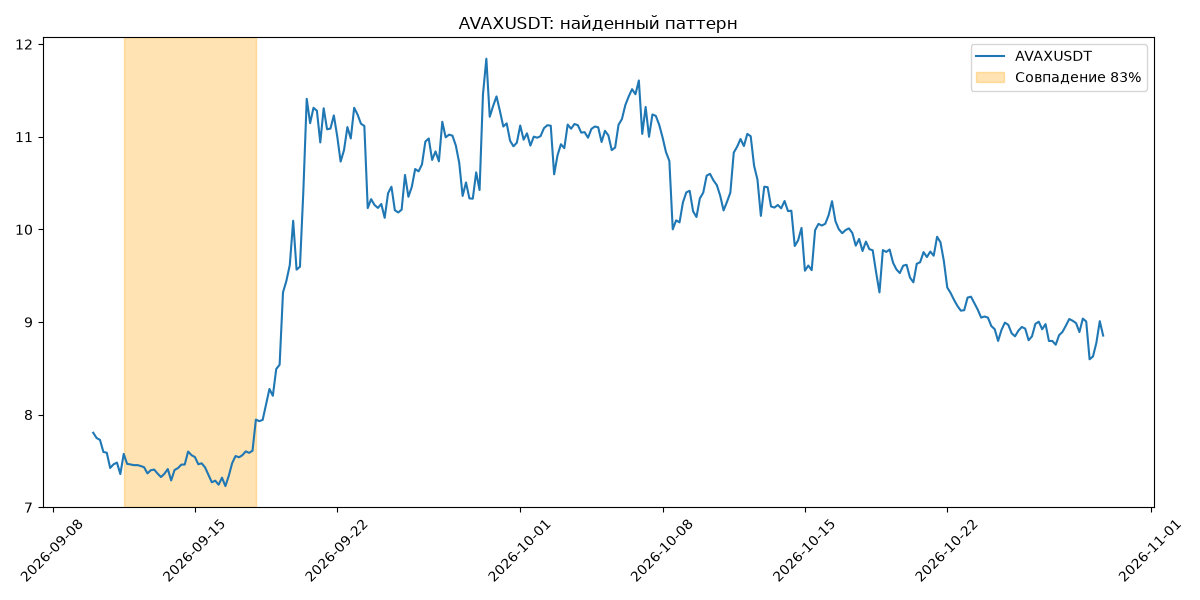
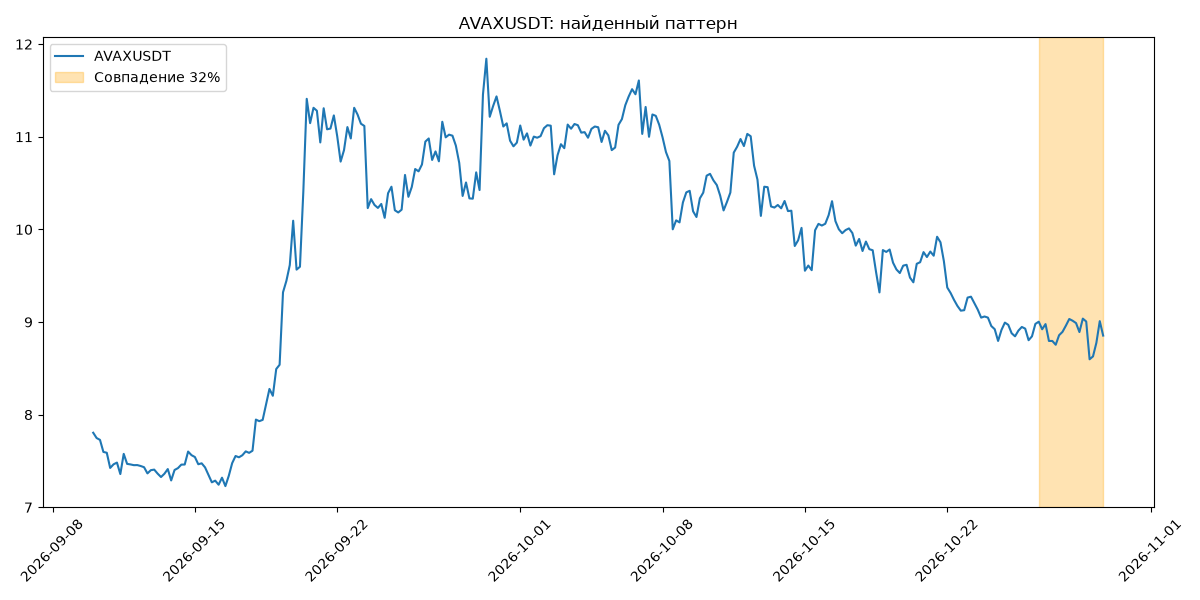
fjf

Changed region(s): [[0.0308, 0.06, 0.2158, 0.87], [0.8017, 0.06, 0.9558, 0.87]]

diff --git a/pattern_finder/demo.py b/pattern_finder/demo.py
@@ -6,6 +6,8 @@ from chart import plot_match
 PHOTO = "w_shape.png"
 INTERVAL = "4h"
 WINDOW = [20,30,40,60,80]
+RECENT = 3
+MIN_SCORE = 0.85
 SYMBOLS = [
     "BTCUSDT", "ETHUSDT", "SOLUSDT", "BNBUSDT", "XRPUSDT",
     "DOGEUSDT", "ADAUSDT", "AVAXUSDT", "LINKUSDT", "DOTUSDT",
@@ -19,13 +21,20 @@ for symbol in SYMBOLS:
     if not candles:
         continue
     df = candles_to_df(candles)
-    start, score, window_len= find_best_match_multi(df["close"].tolist(), shape, WINDOW)
+    start, score, window_len= find_best_match_multi(df["close"].tolist(), shape, WINDOW, RECENT)
     results.append((score, symbol, start, window_len, df))
     print(f"{symbol}: {score:.0%}, окно {window_len} свечей, начало {df.loc[start, 'open_time']:%Y-%m-%d %H:%M} UTC")
 
 results.sort(key=lambda r: r[0], reverse=True)
+good = []
+for r in results:
+    if r[0] >= MIN_SCORE:
+        good.append(r)
 
-print("\nТоп-3 совпадения:")
-for score, symbol, start,window_len, df in results[:3]:
-    print(f"  {symbol}: {score:.0%}, окно {window_len}")
-    plot_match(df, symbol, start, window_len, score, f"match_{symbol}.png")
+if not good:
+    print(f"\nСвежих совпадений выше {MIN_SCORE:.0%} нет")
+else:
+    print("\nНайдены совпадения:")
+    for score, symbol, start, window_len, df in good[:3]:
+        print(f"  {symbol}: {score:.0%}, окно {window_len}")
+        plot_match(df, symbol, start, window_len, score, f"match_{symbol}.png")

diff --git a/pattern_finder/matcher.py b/pattern_finder/matcher.py
@@ -3,10 +3,13 @@ import numpy as np
 from shape import normalize, resample
 
 
-def find_best_match(prices, shape, window_len):
+def find_best_match(prices, shape, window_len, recent=None):
     best_start = 0
     best_score = -1
-    for start in range(len(prices) - window_len + 1):
+    first_start = 0
+    if recent is not  None:
+        first_start =max(0, len(prices)-window_len-(recent -1))
+    for start in range(first_start, len(prices) - window_len + 1):
         segment = prices[start : start + window_len]
         segment_shape = normalize(resample(segment, len(shape)))
         score = np.corrcoef(shape, segment_shape)[0, 1]
@@ -15,12 +18,12 @@ def find_best_match(prices, shape, window_len):
             best_start = start
     return best_start, best_score
 
-def find_best_match_multi(prices, shape, windows):
+def find_best_match_multi(prices, shape, windows, recent):
     best_start = 0
     best_score = -1
     best_window = 0
     for window_len in windows:
-        start, score = find_best_match(prices, shape,window_len)
+        start, score = find_best_match(prices, shape,window_len, recent)
         if score > best_score:
             best_score = score
             best_start = start
